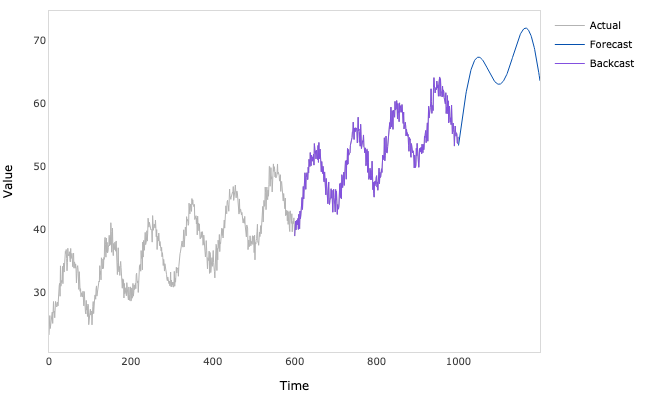
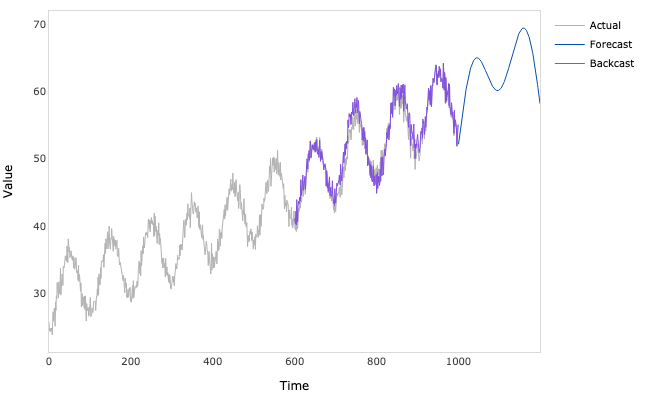
fix bug in model constructor

diff --git a/nbeats_tensorflow/model.py b/nbeats_tensorflow/model.py
@@ -15,9 +15,9 @@ class NBeats():
                  target,
                  forecast_period,
                  lookback_period,
-                 num_trend_coefficients=4,
+                 num_trend_coefficients=3,
                  num_seasonal_coefficients=5,
-                 num_generic_coefficients=6,
+                 num_generic_coefficients=7,
                  hidden_units=100,
                  stacks=['trend', 'seasonality'],
                  num_blocks_per_stack=3,
@@ -42,14 +42,14 @@ class NBeats():
 
         num_trend_coefficients: int.
             Number of basis expansion coefficients of the trend block. This is the number of polynomial terms
-            used for modelling the trend. The default is 4.
+            used for modelling the trend. The default is 3.
 
         num_seasonal_coefficients: int.
             Number of basis expansion coefficients of the seasonality block. This is the number of Fourier terms
             used for modelling the seasonality. The default is 5.
 
         num_generic_coefficients: int.
-            Number of basis expansion coefficients of the generic block. The default is 6.
+            Number of basis expansion coefficients of the generic block. The default is 7.
 
         hidden_units: int.
             Number of hidden units of each of the 4 layers of the fully connected stack. The default is 100.
@@ -436,7 +436,7 @@ def build_model_graph(backcast_time_idx,
                 backcast = Subtract()([backcast, backcast_block])
                 forecast = Add()([forecast, forecast_block])
 
-    return Model(x, [x, forecast])
+    return Model(x, [backcast, forecast])
 
 
 class callback(Callback):

diff --git a/example/example.py b/example/example.py
@@ -19,13 +19,19 @@ model = NBeats(
     lookback_period=400,
     hidden_units=30,
     stacks=['trend', 'seasonality'],
+    num_trend_coefficients=3,
+    num_seasonal_coefficients=5,
+    num_blocks_per_stack=2,
+    share_weights=True,
+    share_coefficients=False,
 )
 
 model.fit(
-    loss='smape',
+    loss='mse',
     epochs=100,
-    batch_size=64,
-    learning_rate=0.001
+    batch_size=32,
+    learning_rate=0.003,
+    backcast_loss_weight=0.5,
 )
 
 # Plot the in-sample predictions

diff --git a/README.MD b/README.MD
@@ -36,13 +36,19 @@ model = NBeats(
     lookback_period=400,
     hidden_units=30,
     stacks=['trend', 'seasonality'],
+    num_trend_coefficients=3,
+    num_seasonal_coefficients=5,
+    num_blocks_per_stack=2,
+    share_weights=True,
+    share_coefficients=False,
 )
 
 model.fit(
-    loss='smape',
+    loss='mse',
     epochs=100,
-    batch_size=64,
-    learning_rate=0.001
+    batch_size=32,
+    learning_rate=0.003,
+    backcast_loss_weight=0.5,
 )
 ```
 ```python
